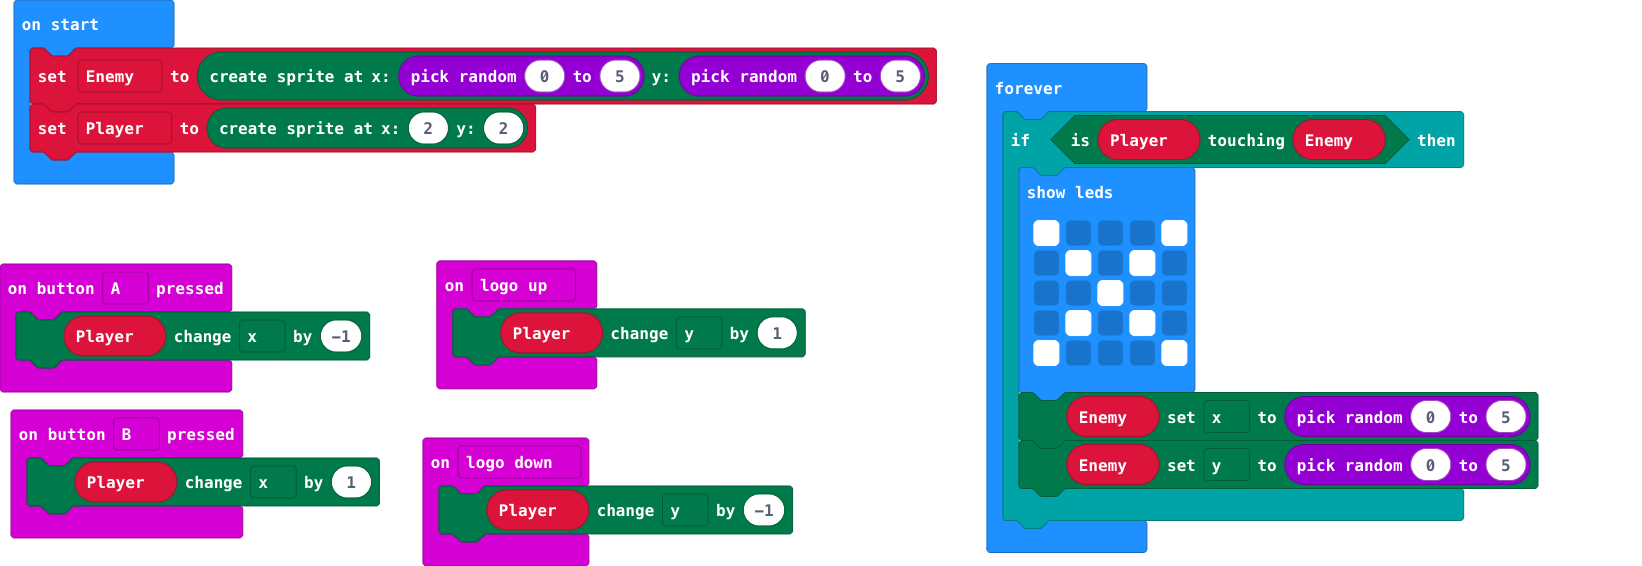
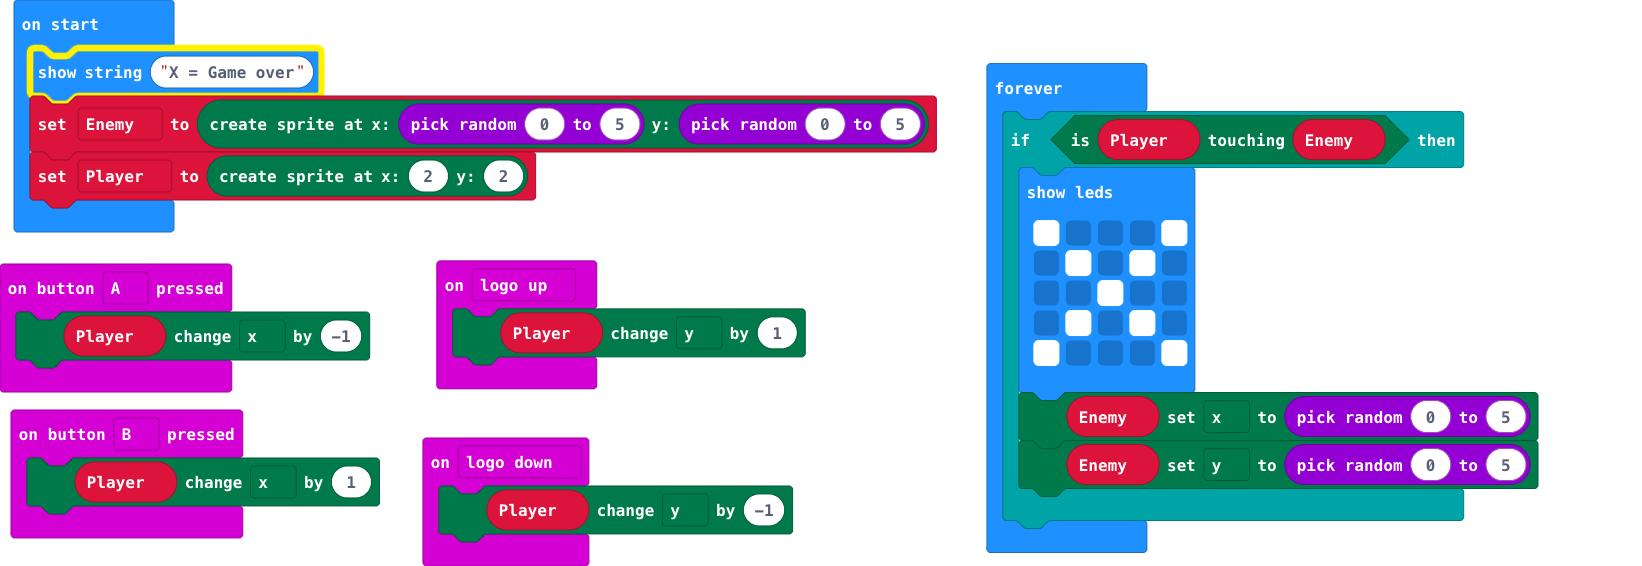
Update main.blocks, main.ts

Changed region(s): [[0.0, 0.0601, 0.5901, 0.4205]]

diff --git a/main.ts b/main.ts
@@ -11,6 +11,7 @@ input.onGesture(Gesture.LogoDown, function () {
     Player.change(LedSpriteProperty.Y, -1)
 })
 let Player: game.LedSprite = null
+basic.showString("X = Game over")
 let Enemy = game.createSprite(randint(0, 5), randint(0, 5))
 Player = game.createSprite(2, 2)
 basic.forever(function () {
